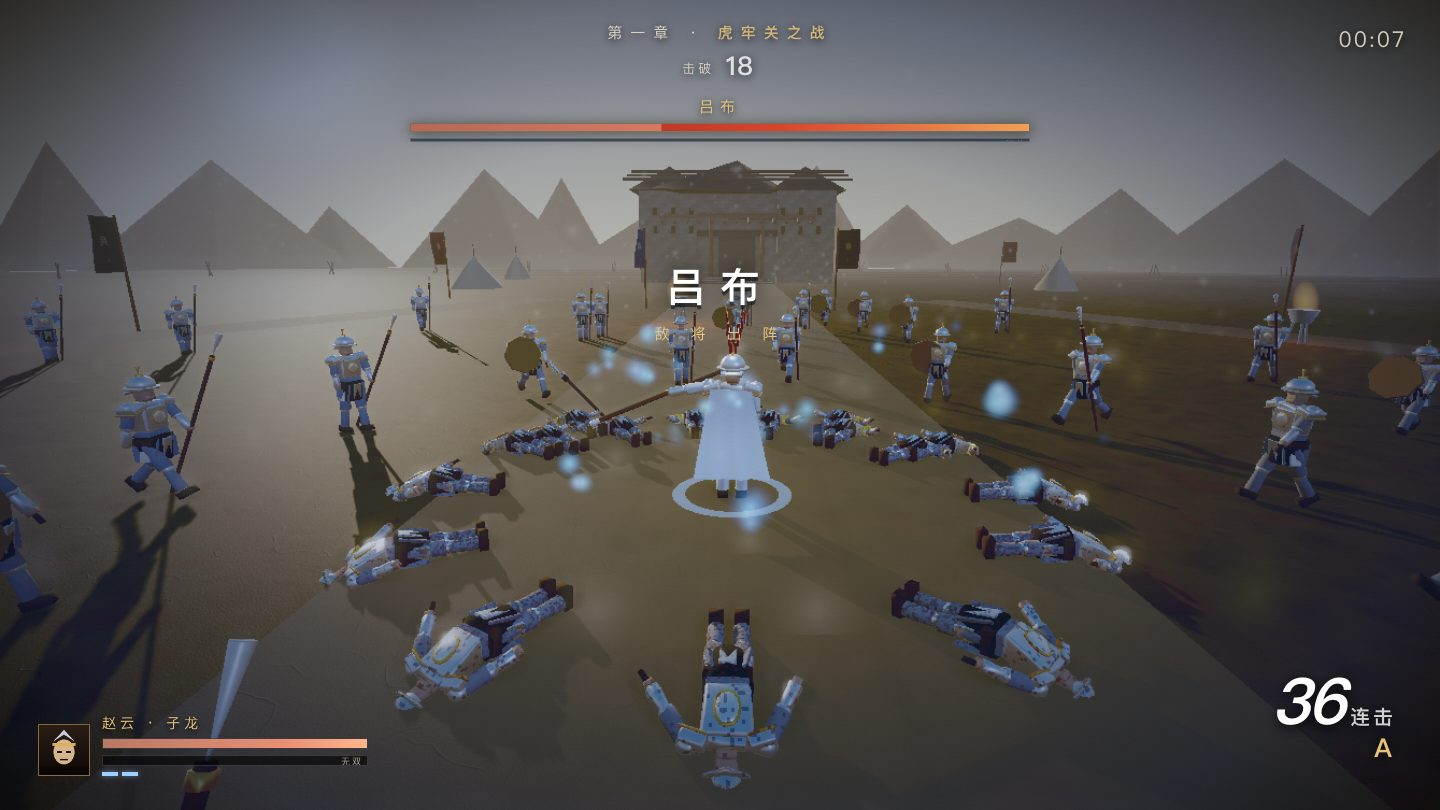
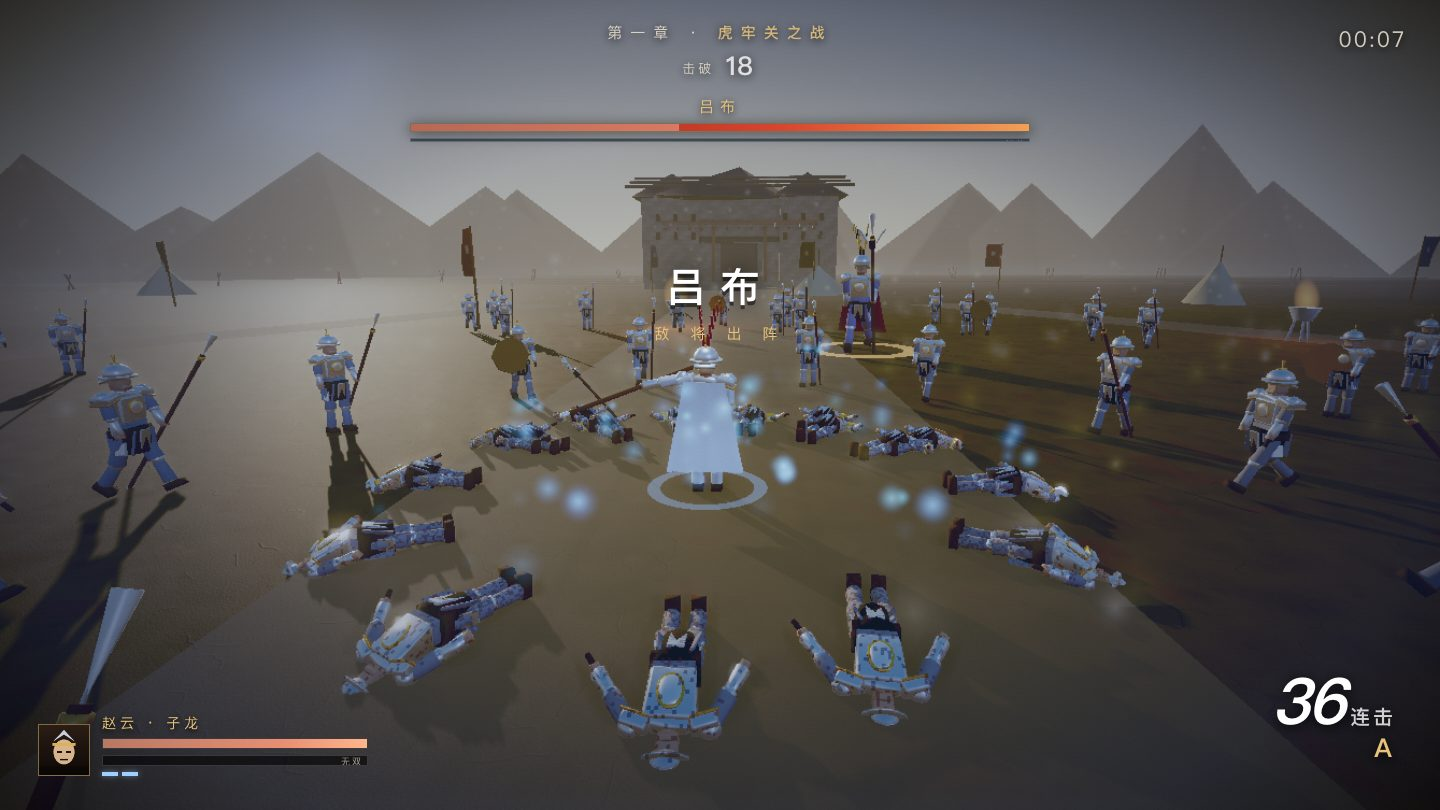
feat: 敌人架势（硬直抗性）——让无脑连点不再是最优解
- 每次命中不再无条件打断：轻击攒 1、第三段/闪避斩攒 2、重击无视架势直接打断
- 上限：dao 1 / archer 1 / spear 2 / 盾兵 3 / officer 5；脱手 2.2s 后每秒回 0.7
- 未打断时只压回攻击进度 25% + 轻微侧倾，敌人仍能完成出招
- 字段分离：s.stagMax/stagAcc（硬直抗性）与 s.poise（敌将处刑条）互不污染
- 机器人对照（60 人 30s）：mash 38→27 击破，mixed 41→39 击破
  差距从 8% 拉大到 44%，存活 23.5s→24.3s（混合）vs 23.6s→22.4s（连点）
- 验收：18/18 + 14/14

diff --git a/demos/index.html b/demos/index.html
@@ -2147,11 +2147,11 @@ for (let i = 0; i < MAXE + 4; i++) shadowIM.setMatrixAt(i, ZERO_M);
 
 /* ---------------- 敌兵数据 ---------------- */
 const TYPES = {
-  dao: { hp: 30, spd: 3.05, dmg: 3.4, range: 2.35, wind: .40, strike: .13, rec: .38, scale: 1.00, tint: 0x8a5a3a, reach: 2.5, score: 1 },
-  spear: { hp: 40, spd: 2.55, dmg: 4.8, range: 3.15, wind: .50, strike: .15, rec: .46, scale: 1.03, tint: 0x44618f, reach: 3.4, score: 1 },
-  archer: { hp: 22, spd: 2.45, dmg: 2.4, range: 17, wind: .70, strike: .10, rec: .70, scale: 0.98, tint: 0x6f7038, reach: 0, score: 1 },
+  dao: { hp: 30, spd: 3.05, dmg: 3.4, range: 2.35, wind: .40, strike: .13, rec: .38, scale: 1.00, tint: 0x8a5a3a, reach: 2.5, score: 1, poise: 1 },
+  spear: { hp: 40, spd: 2.55, dmg: 4.8, range: 3.15, wind: .50, strike: .15, rec: .46, scale: 1.03, tint: 0x44618f, reach: 3.4, score: 1, poise: 2 },
+  archer: { hp: 22, spd: 2.45, dmg: 2.4, range: 17, wind: .70, strike: .10, rec: .70, scale: 0.98, tint: 0x6f7038, reach: 0, score: 1, poise: 1 },
   /* 敌将：独立类型，自带大开大合的前后摇（比枪兵更慢更重） */
-  officer: { hp: 620, spd: 3.4, dmg: 16, range: 3.6, wind: .62, strike: .20, rec: .58, scale: 1.30, tint: 0xd8b25a, reach: 5.6, score: 10 }
+  officer: { hp: 620, spd: 3.4, dmg: 16, range: 3.6, wind: .62, strike: .20, rec: .58, scale: 1.30, tint: 0xd8b25a, reach: 5.6, score: 10, poise: 5 }
 };
 const E = [];
 for (let i = 0; i < MAXE; i++) E.push({
@@ -2177,7 +2177,9 @@ function spawnEnemy(type, x, z, opt = {}) {
   /* 阵型角色：刀兵前排、枪兵侧翼、弓兵后排 */
   s.role = opt.officer ? 'boss' : (type === 'archer' ? 'back' : (type === 'spear' ? 'flank' : 'front'));
   s.side = Math.random() < .5 ? -1 : 1;
-  s.shield = (s.role === 'front' && Math.random() < .6) ? 1 : 0;   /* 混合阵线：六成持盾 */
+  s.shield = (s.role === 'front' && Math.random() < .6) ? 1 : 0;
+  s.stagMax = (d.poise || 1) + (s.shield ? 1 : 0);
+  s.stagAcc = 0; s.stagT = 0;   /* 混合阵线：六成持盾 */
   s.tint.set(opt.tint ?? d.tint);
   if (opt.officer) s.tint.set(opt.tint || 0xd8b25a);
   return s;
@@ -2248,7 +2250,21 @@ function damageEnemy(s, dmg, dirX, dirZ, heavy) {
   if (player.state !== 'musou') player.musou = clamp(player.musou + (heavy ? 2.6 : 1.1) * player.musouMul, 0, player.maxMusou);
   player.combo++; player.comboT = 2.6;
   if (s.hp <= 0) { killEnemy(s); return; }
-  if (s.state !== 'dead') { s.state = 'stagger'; s.t = 0; s.atkP = 0; }
+  /* 架势（硬直抗性）：轻击只攒架势，够了才打断；重击无视架势直接打断 */
+  if (s.state !== 'dead') {
+    const poiseDmg = w >= 1.0 ? 99 : (w >= .75 ? 2 : 1);
+    const stagMax = s.stagMax || 1;
+    if (poiseDmg >= 99 || (s.stagAcc || 0) + poiseDmg >= stagMax) {
+      s.stagAcc = 0; s.stagT = 3.0;
+      s.state = 'stagger'; s.t = 0; s.atkP = 0;
+    } else {
+      s.stagAcc = (s.stagAcc || 0) + poiseDmg;
+      s.stagT = Math.max(s.stagT || 0, 2.2);
+      /* 不打断，但攻击被打断为"踉跄"：只把攻击进度压回去一点 */
+      if (s.state === 'wind') s.atkP = Math.max(0, s.atkP - .25);
+      s.hitLean = (facingDot > 0 ? 1 : -1) * .1;
+    }
+  }
 }
 
 /* ---------------- 敌兵 AI ---------------- */
@@ -2427,6 +2443,11 @@ function updateEnemies(dt) {
     if (s.officer && (s.poise || 0) > 0) {
       if ((s.poiseT || 0) > 0) s.poiseT -= dt;
       else s.poise = Math.max(0, s.poise - 9 * dt);
+    }
+    /* 杂兵架势：脱手 2.2s 后开始恢复（每秒 0.7 点） */
+    if (!s.officer && s.stagAcc > 0) {
+      if (s.stagT > 0) s.stagT -= dt;
+      else s.stagAcc = Math.max(0, s.stagAcc - .7 * dt);
     }
 
     /* 攻击状态机 */

diff --git a/README.md b/README.md
@@ -55,6 +55,14 @@ cd demos && python3 -m http.server 8000
   强化池 6 种：烈刃（伤害 +18%）/ 疾风（出招 +12%）/ 龙胆（无双槽 +25%）/ 横扫（范围 +15%）/ 铁壁（体力上限 +25 并回满）/ 嗜血（击破回 1.5）。
 - **锁定吸附**：锁定敌将时轻击/重击会把朝向拉到目标并小幅前移，显著减少 60 人混战里的挥空。
 - **格挡 / 弹反**：`Q` 按住减伤 80%（不进硬直、不断连击）；受击前 0.16 s 内按下为**精准弹反**——无伤 + 0.2 s 顿帧 + 震退面前敌人 + 无双槽 +8。
+- **架势（硬直抗性）**：每次命中不再无条件打断敌人。轻击攒 1 点、第三段/闪避斩攒 2 点、**重击无视架势直接打断**；
+  攒满才硬直，脱手 2.2 s 后每秒回 0.7 点。上限：刀兵 1 / 弓兵 1 / 枪兵 2 / 盾兵 3 / 敌将 5。
+  **机器人对照实验（60 人、30 s 上限、同一起点）**：
+  | | 无脑连点 J | 混合操作（垫刀→蓄力重击→闪避） | 差距 |
+  |---|---|---|---|
+  | 改前 | 38 击破 / 存活 23.6 s | 41 击破 / 23.5 s | 3 击破（8%），存活相同 |
+  | 改后 | **27 击破 / 22.4 s** | **39 击破 / 24.3 s** | **12 击破（44%）**，存活多 1.9 s |
+  改后无脑连点被单独惩罚（−29%），混合操作几乎无损（−5%）——**攻击方式终于有了取舍**。
 - **阵型重整**：每 1.5 s 检查一次，前排存活不足 45% 时把**最靠近玩家的侧翼**提升为前排补位；
   盾兵破防后会主动退为侧翼。实测：12 前排 8 侧翼 → 前排全灭 → 2 s 后自动补成 4 前排 4 侧翼。
 - **盾兵**：前排刀兵中**六成持盾**（左前臂挂盾，独立网格），正面来袭减伤 **30%**，累计 3 次轻击或 1 次重击**破防**（进硬直、盾消失、显示"破防"）。
